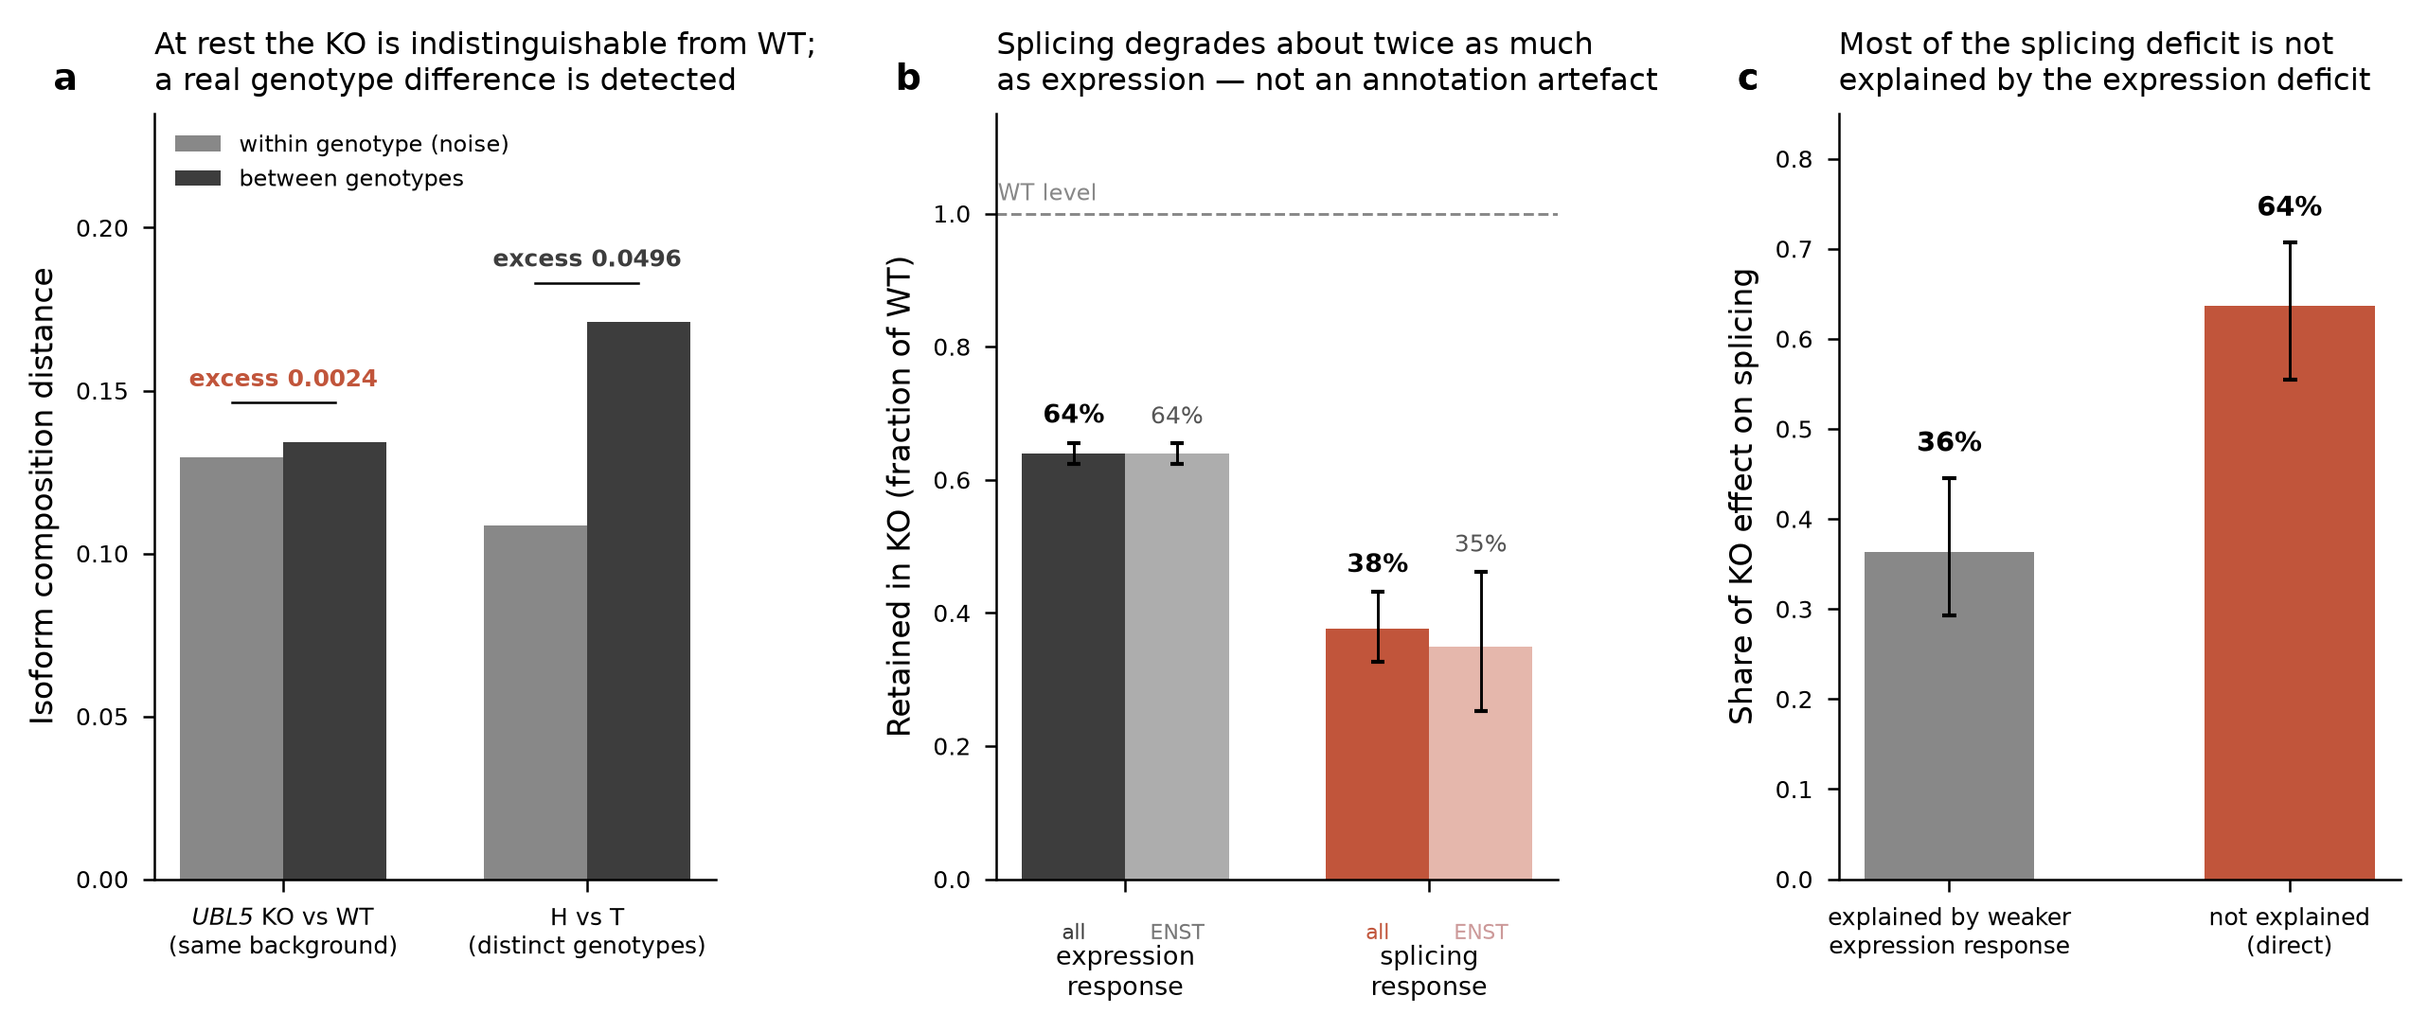
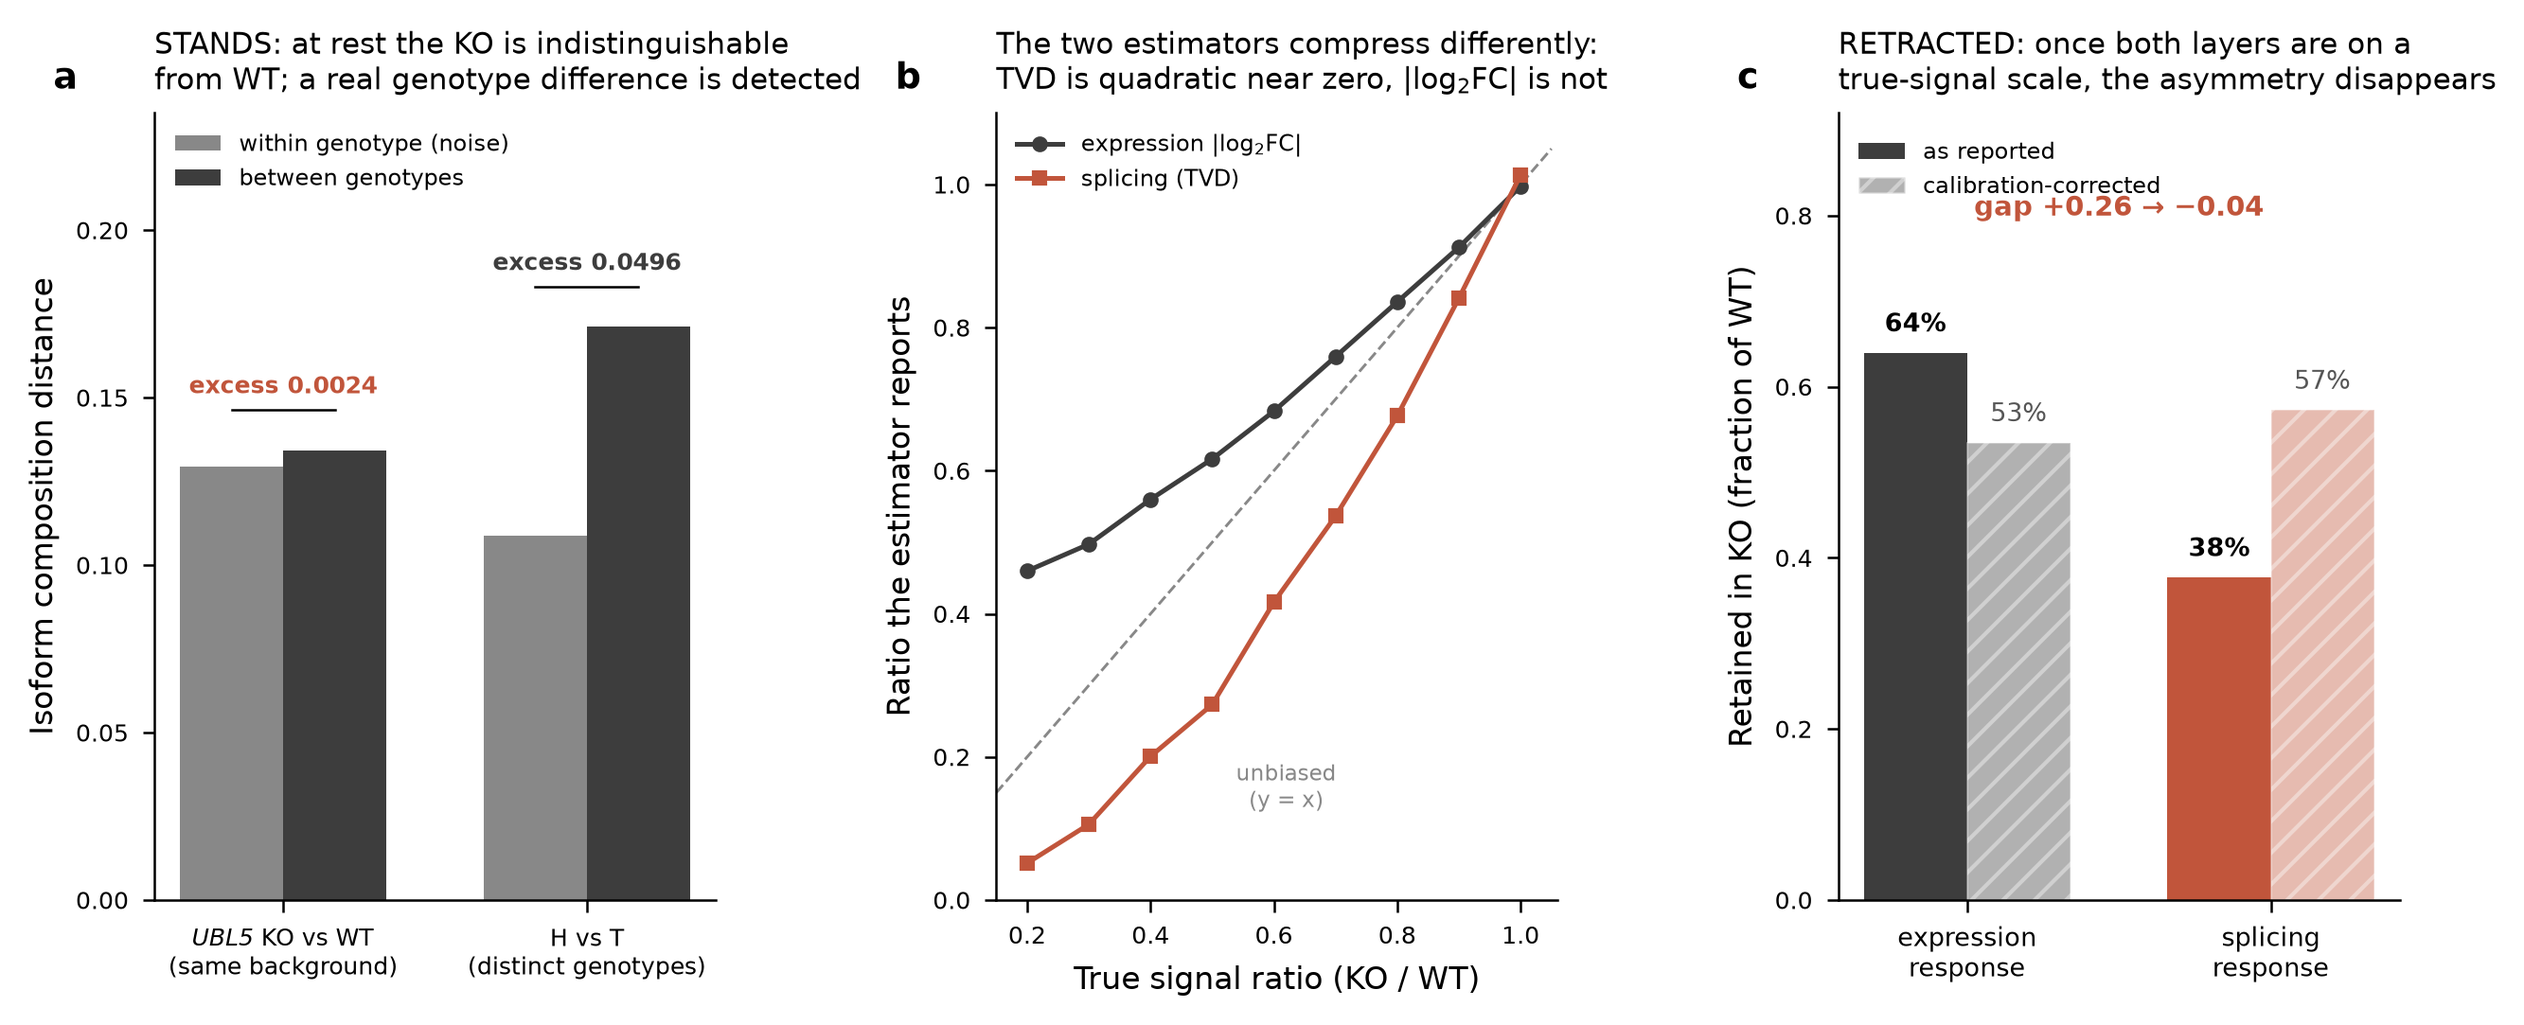
docs/external_review: retract the layer asymmetry; adopt the estimator calibration
Claude Code's scripts/10_layer_estimator_calibration.R (36690a2) rejects the
expression-vs-splicing asymmetry on the measurement rather than the biology. I
reran it, reproduced the calibration grid exactly, and the rebuttal is correct.
Findings 2b and 2c are retracted; recorded as "Superseded" item 6.

Mechanism: |log2FC| averages replicates before taking the absolute value and
tracks truth near-linearly; TVD is a sum of absolute values, so for signal small
relative to noise E|s+n| ~ E|n| + O(s^2) and the estimator is quadratic near
zero. Comparing the two manufactures an asymmetry. Inverting the calibration
turns 64%/38% into 53%/57% — observed gap +0.26 becomes -0.04.

Additional check of my own: matching the estimator structure across both layers
does NOT rescue the comparison. An identical across-minus-within pairwise form
gives expression 53.7% vs splicing 39.9%, still a 14-point gap, because
compression depends on signal-to-noise and the layers differ 20x there (WT SNR
1.81 vs 0.09). At SNR 0.09 the splicing estimator sits deep in the quadratic
regime. New tables: layer_snr.csv, layer_matched_estimator.csv.

Scope: Finding 2a (baseline composition normal in the KO) survives untouched —
within-layer comparison, no cross-layer ratio. The globally blunted LPS
expression response survives. The mediation split 36/64 must not be quoted; it
inherits the compressed splicing estimator. Q2 is now unresolved pending a
[…]

diff --git a/docs/external_review/HANDOFF.md b/docs/external_review/HANDOFF.md
@@ -2,15 +2,24 @@
 
 External analysis of the isoform-switch-pipeline results, 2026-08-07, revised 2026-08-18.
 
-> **Revision 2026-08-18 — read this before anything else.** The GFF3 and transcript FASTA
-> files are now available locally (`gff3/`, `fa/` — both gitignored, 3.9 GB, do not commit).
-> Re-running the event-structure analysis on the project's own annotation, at 100% coverage
-> rather than the 47.6% reachable via Ensembl, **superseded three items in this document.**
-> They are listed in "Superseded — do not implement" as items 3-5. In short: the ISG-sparing
-> claim is withdrawn (it was a ratio artefact), the AFE percentages are replaced, and a
-> reported bimodality in TSS distance was an artefact of mixing two annotations and is
-> retracted. The `FIGURES.md` walkthrough (`figures/F1`-`F5`) reflects the corrected state
-> and is the fastest way in.
+> **Revision 2026-08-18 — read this before anything else.** Four items in this document are
+> now superseded; they are listed in "Superseded — do not implement" as items 3-6, and the
+> `FIGURES.md` walkthrough (`figures/F1`-`F5`) reflects the corrected state and is the fastest
+> way in.
+>
+> **The most important one is item 6.** The expression-vs-splicing layer asymmetry — the
+> load-bearing claim of the UBL5 argument in Finding 2 — is **retracted**. Claude Code's
+> `scripts/10_layer_estimator_calibration.R` (commit 36690a2) showed it rests on comparing two
+> estimators biased in opposite directions; I reproduced the calibration, tested whether
+> matching the estimator structure rescues it (it does not — the layers differ 20x in
+> signal-to-noise), and the rebuttal holds. The Q2 conclusion is **unresolved** pending a
+> formal differential-splicing model, not supported.
+>
+> Items 3-5 follow from the GFF3 and transcript FASTA now being available locally (`gff3/`,
+> `fa/` — both gitignored, 3.9 GB, do not commit), which allowed the event-structure analysis
+> to run at 100% coverage rather than the 47.6% reachable via Ensembl: the ISG-sparing claim
+> is withdrawn (a ratio artefact), the AFE percentages are replaced, and a reported bimodality
+> in TSS distance turned out to be an artefact of mixing two annotations.
 
 **This document supersedes the earlier `REVIEW_HANDOFF.md`.** If that file is in the repo,
 read the "Superseded" section below before implementing anything from it — its headline
@@ -32,7 +41,7 @@ literature_review.md             cited literature grounding both questions
 
 figures/
   F1_scope.png                   what the data is; reproducibility; cryptic switching
-  F2_ubl5_mechanism.png          baseline composition, layer asymmetry, mediation
+  F2_ubl5_mechanism.png          baseline composition + the retracted layer asymmetry (item 6)
   F3_specificity.png             what the deficit is NOT (three negative controls)
   F4_event_structure.png         what the switches structurally are (GFF3, 100% coverage)
   F5_implications.png            assay feasibility and a verdict per question
@@ -157,6 +166,63 @@ Two further corrections to that earlier document:
    classified by mode rather than tested on the continuous scale), and any claim that UBL5
    loss preferentially removes internal-splicing events (59% vs 51%, Fisher p = 0.26).
 
+6. **The expression-vs-splicing layer asymmetry is retracted — Findings 2b and 2c.** This was
+   the load-bearing claim of the whole UBL5 argument: 64% of the expression response retained
+   in the KO against 38% of the splicing response, non-overlapping CIs, robust to an ENST-only
+   annotation control. `scripts/10_layer_estimator_calibration.R` (commit 36690a2) rejects it
+   on the measurement, and **the rebuttal is correct**. I reran the script and reproduced the
+   calibration table exactly.
+
+   The mechanism: expression response is |log2FC| between condition means, so averaging three
+   replicates *before* the absolute value tracks truth almost linearly. Splicing response is a
+   total variation distance — a sum of absolute values, which does not average out noise, so
+   for signal small relative to noise E|s+n| ≈ E|n| + O(s²). The splicing estimator is
+   therefore roughly **quadratic** near zero and compresses ratios toward 0, while the
+   expression estimator does not. Comparing them manufactures an asymmetry even when both
+   layers are reduced by the same factor:
+
+   | true ratio | expression reports | splicing reports |
+   |---|---|---|
+   | 1.0 | 1.00 | 1.01 |
+   | 0.8 | 0.84 | 0.68 |
+   | 0.6 | 0.68 | 0.42 |
+   | 0.4 | 0.56 | 0.20 |
+
+   Inverting on the observed values turns **64% / 38% into 53% / 57%** — the observed gap of
+   **+0.26 becomes −0.04**. The pipeline's own estimator (60% / 65% observed) corrects to
+   48% / 75%. Both analyses agree once the layers are on a true-signal scale: the layers are
+   reduced by indistinguishable amounts.
+   Backing: `tables/layer_estimator_calibration.csv`, `tables/layer_retention_corrected.csv`.
+
+   **I checked whether matching the estimator structure rescues it. It does not.** Applying an
+   identical across-minus-within pairwise form to *both* layers narrows the gap from 26 to 14
+   points (expression 53.7%, splicing 39.9%) but cannot close it, because compression depends
+   on **signal-to-noise**, not only estimator form, and the layers differ there by **20x**:
+
+   | layer | arm | signal | noise | SNR |
+   |---|---|---|---|---|
+   | expression | WT | 0.3053 | 0.1686 | 1.81 |
+   | expression | KO | 0.1638 | 0.1537 | 1.07 |
+   | splicing | WT | 0.0127 | 0.1407 | 0.09 |
+   | splicing | KO | 0.0051 | 0.1328 | 0.04 |
+
+   At SNR 0.09 the splicing estimator is deep in the quadratic regime while expression is not.
+   Matched structure is necessary but not sufficient — so this is not fixable by tweaking the
+   distance measure.
+   Backing: `tables/layer_matched_estimator.csv`, `tables/layer_snr.csv`.
+
+   **Scope of the retraction.** It does *not* show UBL5 has no splicing-specific role; it
+   shows this measurement cannot demonstrate one in either direction. Finding 2a survives
+   untouched (within-layer, no cross-layer ratio). The globally blunted LPS expression
+   response survives (expression alone). **Finding 2c must not be quoted** — the mediation
+   decomposition inherits the same compressed splicing estimator.
+
+   **What to build instead.** A formal differential-splicing model — DRIMSeq or satuRn, with
+   the pairing included if the design is paired — fitted on the count matrices, returning a
+   per-gene effect size on a scale comparable between layers. Until that exists, the Q2
+   conclusion is **unresolved**, not supported and not refuted. Any future claim of the form
+   "layer X is affected more than layer Y" must carry an estimator calibration alongside it.
+
 ---
 
 ## Experimental design facts that constrain interpretation
@@ -207,6 +273,12 @@ The layer asymmetry is annotation-independent. Backing: `tables/ubl5_retention_b
 ---
 
 ## Finding 2 — The UBL5 result, restated correctly
+
+> **2b and 2c are RETRACTED — see item 6 in "Superseded".** The estimator calibration in
+> `scripts/10_layer_estimator_calibration.R` shows the expression-vs-splicing asymmetry is an
+> artefact of comparing two estimators biased in opposite directions. I reproduced that
+> calibration and confirmed it. **2a stands** — it is a within-layer comparison with no
+> cross-layer ratio. Do not cite 2b or 2c.
 
 Three constraints, each from an independent analysis:
 
@@ -508,10 +580,15 @@ those columns are undefined rather than zero.
 - No new copy of the switching rule: `grep -rn "score_isoforms <- function" scripts/` returns
   nothing.
 - Gene summary row counts still equal distinct `gene_id` counts (`02`/`02b` assertions pass).
-- Reproduce before changing prose: retention 64.0% / 37.7%; baseline excess 0.0024 (KO) vs
-  0.0496 (H vs T); mediation 36.3% / 63.7%; Class B reproduction 11 of 47 testable (23.4%)
-  vs 0.52% base rate, 11 of 56 total;
-  class `j` OR 0.61.
+- Reproduce before changing prose: baseline excess 0.0024 (KO) vs 0.0496 (H vs T); Class B
+  reproduction 11 of 47 testable (23.4%) vs 0.52% base rate, 11 of 56 total; class `j` OR 0.61.
+  (The retention figures 64.0% / 37.7% and the mediation split 36.3% / 63.7% are still
+  reproducible from their tables, but are **retracted** — item 6. Reproducing them is a check
+  on the code, not a licence to quote them.)
+- Item 6 checks: `Rscript scripts/10_layer_estimator_calibration.R` reproduces the calibration
+  grid (true 0.6 → expression 0.68, splicing_A 0.42) and the corrected gap −0.04 for the
+  external-review row. Matched-structure control: expression 53.7% / splicing 39.9% with WT
+  SNR 1.81 vs 0.09.
 - Added 2026-08-18. Event structure, from `gff3/U_T.gff3` at 143/143 WT events: pure promoter
   switch 21.7%, internal junction change 59.4%, true alternative promoter 69.2%, median TSS
   distance 12,679 bp, Hartigan dip p = 0.99 (unimodal). Absolute-scale sparing: ISG loss

diff --git a/docs/external_review/FIGURES.md b/docs/external_review/FIGURES.md
@@ -43,11 +43,12 @@ Backing: `tables/cryptic_switchers_T_UT.csv`.
 
 ![F2](figures/F2_ubl5_mechanism.png)
 
-The problem this figure solves: the KO has both a weaker expression response *and* weaker
-splicing. Correlation alone cannot say which is upstream. An earlier version of this review
-stratified on expression response and concluded the splicing deficit was explained away —
-that was **conditioning on a mediator** and is retracted (see `HANDOFF.md`, "Superseded").
-These three panels discriminate instead of adjusting.
+**This figure records a retraction.** Earlier versions of this review made the
+expression-vs-splicing asymmetry the load-bearing claim for a splicing-specific UBL5 role.
+`scripts/10_layer_estimator_calibration.R` (Claude Code, commit 36690a2) showed that claim
+rests on comparing two estimators biased in opposite directions. I verified the argument,
+reproduced the calibration exactly, and **the asymmetry does not survive it.** Panel a still
+stands; panels b-c document why the asymmetry does not.
 
 **a. There is no constitutive splicing defect.** Comparing *unstimulated* cells only, using
 per-gene isoform composition distance over shared isoforms and calibrating against
@@ -57,23 +58,47 @@ essentially nil. The positive control, two genuinely different genotypes (H vs T
 at rest does not have one. Whatever UBL5 does, it is condition-dependent.
 Backing: `tables/baseline_composition_test.csv`.
 
-**b. Splicing degrades about twice as much as expression.** Noise-corrected, the KO retains
-**64.0%** (95% CI 62.5-65.6) of the wildtype expression response but only **37.7%**
-(32.7-43.1) of the splicing response — non-overlapping intervals. Restricting to
-reference-only (ENST) transcripts, so both arms use identical annotation and no PacBio-novel
-transcript can bias the comparison, reproduces it: 63.9% vs 35.0%. This asymmetry is what
-a purely downstream splicing effect does not predict.
-Backing: `tables/ubl5_retention_by_layer.csv`.
+**b. The two estimators compress signal at different rates.** Expression response is
+|log2FC| between condition means — averaging three replicates *before* the absolute value, so
+the estimate tracks truth almost linearly. Splicing response is a total variation distance, a
+sum of absolute values, which does not average out noise: for signal small relative to noise,
+E|s+n| ≈ E|n| + O(s²), so the estimator is roughly **quadratic** near zero and compresses
+ratios toward 0. Simulating a known ratio, a genotype with 60% of the true signal reads as
+68% by the expression estimator but only 42% by the splicing estimator. Comparing an
+upward-biased number to a downward-biased one manufactures an asymmetry even when both
+layers are reduced by exactly the same factor.
+Backing: `tables/layer_estimator_calibration.csv`.
 
-**c. Most of the splicing deficit is not explained by the expression deficit.** A mediation
-decomposition puts **36.3%** (CI 29.3-44.5) of the KO's effect on splicing through the
-reduced expression response and **63.7%** (55.5-70.7) unexplained by it.
-Backing: `tables/mediation_decomposition.csv`.
+**c. Inverting the calibration removes the asymmetry.** The reported 64% / 38% becomes
+**53% / 57%** on a true-signal scale — the observed gap of **+0.26 becomes −0.04**. The
+pipeline's own independent estimator, which disagreed sharply on raw numbers (60% / 65%),
+lands at 48% / 75% after correction. Both analyses agree once the layers are on a comparable
+scale: **the two layers are reduced by indistinguishable amounts.**
+Backing: `tables/layer_retention_corrected.csv`.
 
-**Read "direct" carefully.** It means *not explained by the measured mediator*, not
-*causally direct*. Reverse causation — splicing failure weakening the expression response —
-fits these data equally well. What the three panels together rule out is the specific model
-where splicing is merely a passive readout of a blunted transcriptional response.
+**I checked whether matching the estimator structure rescues the comparison. It does not.**
+Applying an identical across-minus-within pairwise form to both layers narrows the gap from
+26 to 14 points (expression 53.7%, splicing 39.9%) but cannot close it, because compression
+depends on **signal-to-noise**, not just estimator form — and the layers differ there by
+**20×** (WT expression SNR 1.81, splicing 0.09). At SNR 0.09 the splicing estimator is deep
+in the quadratic regime while expression is not. Matched structure is necessary, not
+sufficient.
+Backing: `tables/layer_matched_estimator.csv`, `tables/layer_snr.csv`.
+
+**What this does and does not overturn.** It does **not** show UBL5 has no splicing-specific
+role — it shows this measurement cannot demonstrate one in either direction. It does not
+touch panel a (a within-layer comparison, no cross-layer ratio involved), and it does not
+touch the globally blunted LPS expression response, which rests on expression alone. The
+mediation decomposition (36% / 64%, `tables/mediation_decomposition.csv`) inherits the same
+compressed splicing estimator and **should not be quoted** until recomputed on a calibrated
+scale. The simulation assumes Gaussian homoscedastic noise, so the magnitude of the
+correction is approximate; the *direction* of the two biases is not — it follows from the
+algebra of averaging before versus after an absolute value.
+
+**Resolving this properly** needs an estimator whose bias does not depend on which layer it
+is applied to: a formal differential-splicing model (DRIMSeq or satuRn) that returns a
+per-gene effect size on a comparable scale for both layers, rather than a
+noise-subtracted distance.
 
 ---
 
@@ -188,7 +213,7 @@ cheapest-potentially-fatal-first, in `EXPERIMENTS.md`.
 | question | verdict |
 |---|---|
 | Splicing responds to LPS beyond what expression shows | **Supported** — 19.7% of switching genes are invisible to gene-level DE |
-| UBL5 acts on splicing, not merely via expression | **Supported** — 63.7% of the deficit unexplained by expression; 62% of its interactome is spliceosomal |
+| UBL5 acts on splicing, not merely via expression | **Unresolved** — the layer asymmetry was an estimator artefact (F2b-c). The spliceosomal interactome (62% of 82 partners, SART1 edge) is suggestive but is annotation, not measurement |
 | UBL5 has a constitutive splicing defect | **Rejected** — baseline composition identical to WT (excess 0.0024 vs 0.0496 positive control) |
 | The deficit is LPS-pathway-specific | **Rejected** — transcriptome-wide; no TLR4 network proximity above a degree-matched null |
 | The switches are promoter choice, not splicing | **Partly** — 21.7% promoter-only, but 59.4% involve internal splicing |
@@ -201,10 +226,17 @@ cheapest-potentially-fatal-first, in `EXPERIMENTS.md`.
 Everything here derives from ISA's condition means and replicate isoform fractions. The
 composition measure (total variation distance over renormalised isoform fractions, calibrated
 against within-condition replicate pairs) is a reasonable summary but **is not a formal
-differential-splicing test**. The layer asymmetry in F2b is the claim a manuscript would rest
-on; it deserves confirmation with a purpose-built method (DRIMSeq or satuRn, with the pairing
-included if the design is paired) and against the count matrices rather than condition means,
-before it goes further than internal discussion.
+differential-splicing test** — and F2b-c is the concrete cost of that: the layer asymmetry I
+originally made load-bearing did not survive calibration. A purpose-built method (DRIMSeq or
+satuRn, with the pairing included if the design is paired), run on the count matrices rather
+than condition means, is now the blocking step for the whole UBL5 question rather than a
+nice-to-have.
+
+The general lesson, worth carrying to the other findings: **any claim of the form "layer X is
+affected more than layer Y" needs its estimators calibrated before it is believed.** The
+findings in F1, F3 and F4 do not have this problem — they are within-layer comparisons,
+proportions, or structural classifications, none of which compare two differently-biased
+estimators.
 
 Sample naming (`T1_minus`/`T1_plus` ... at n = 3) implies a **paired** design. That was
 inferred from filenames and has not been confirmed. Do not change the model on that basis —
